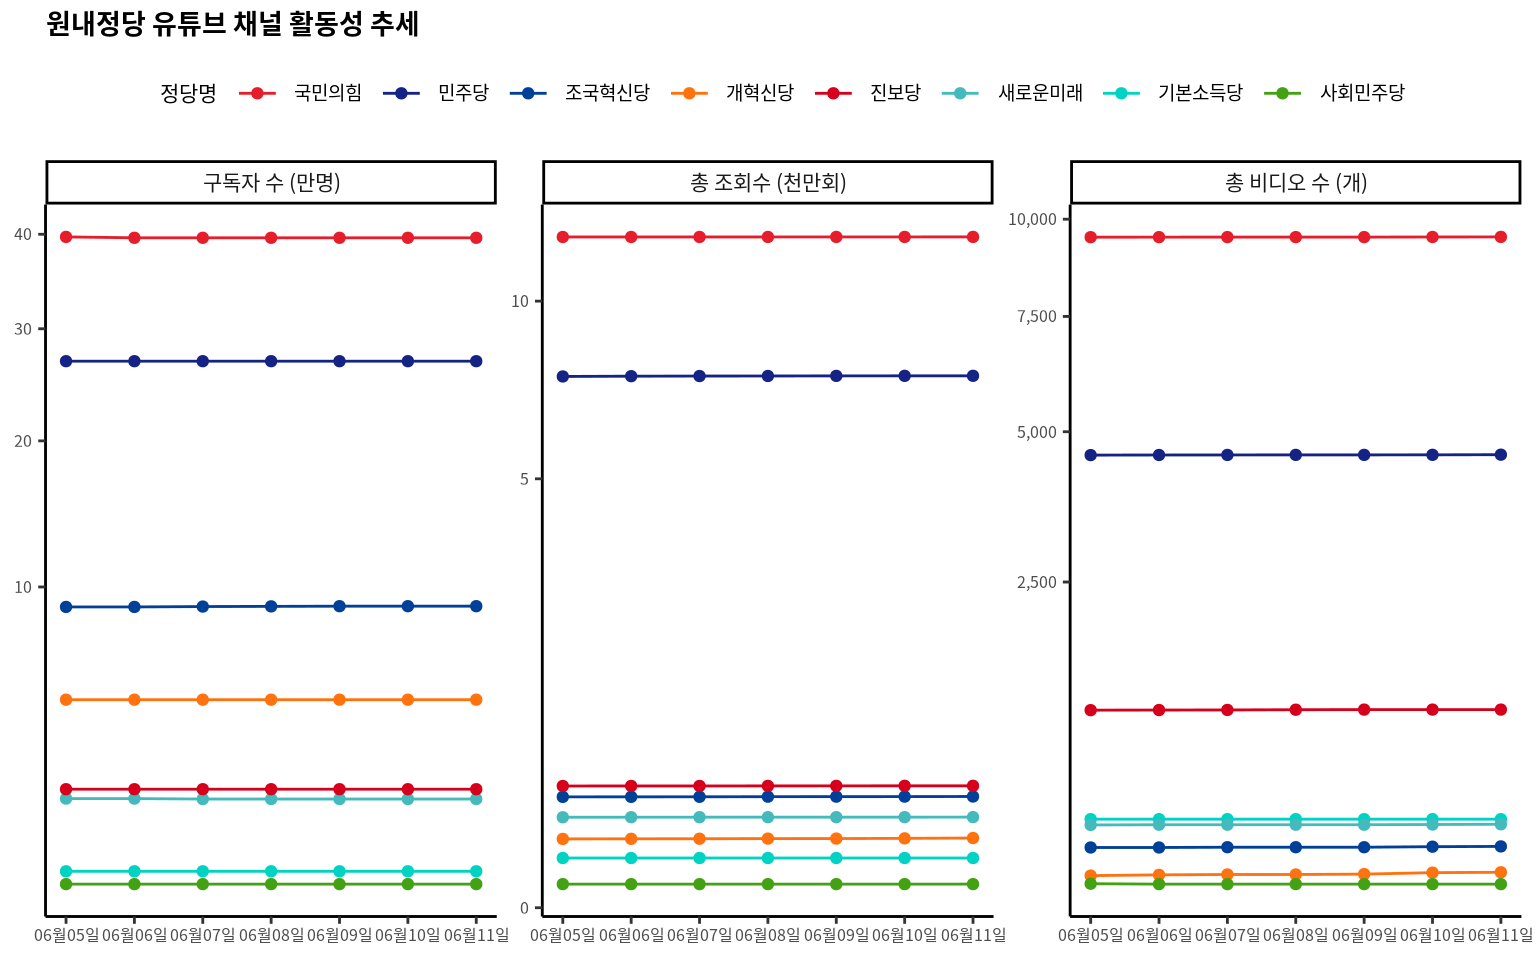
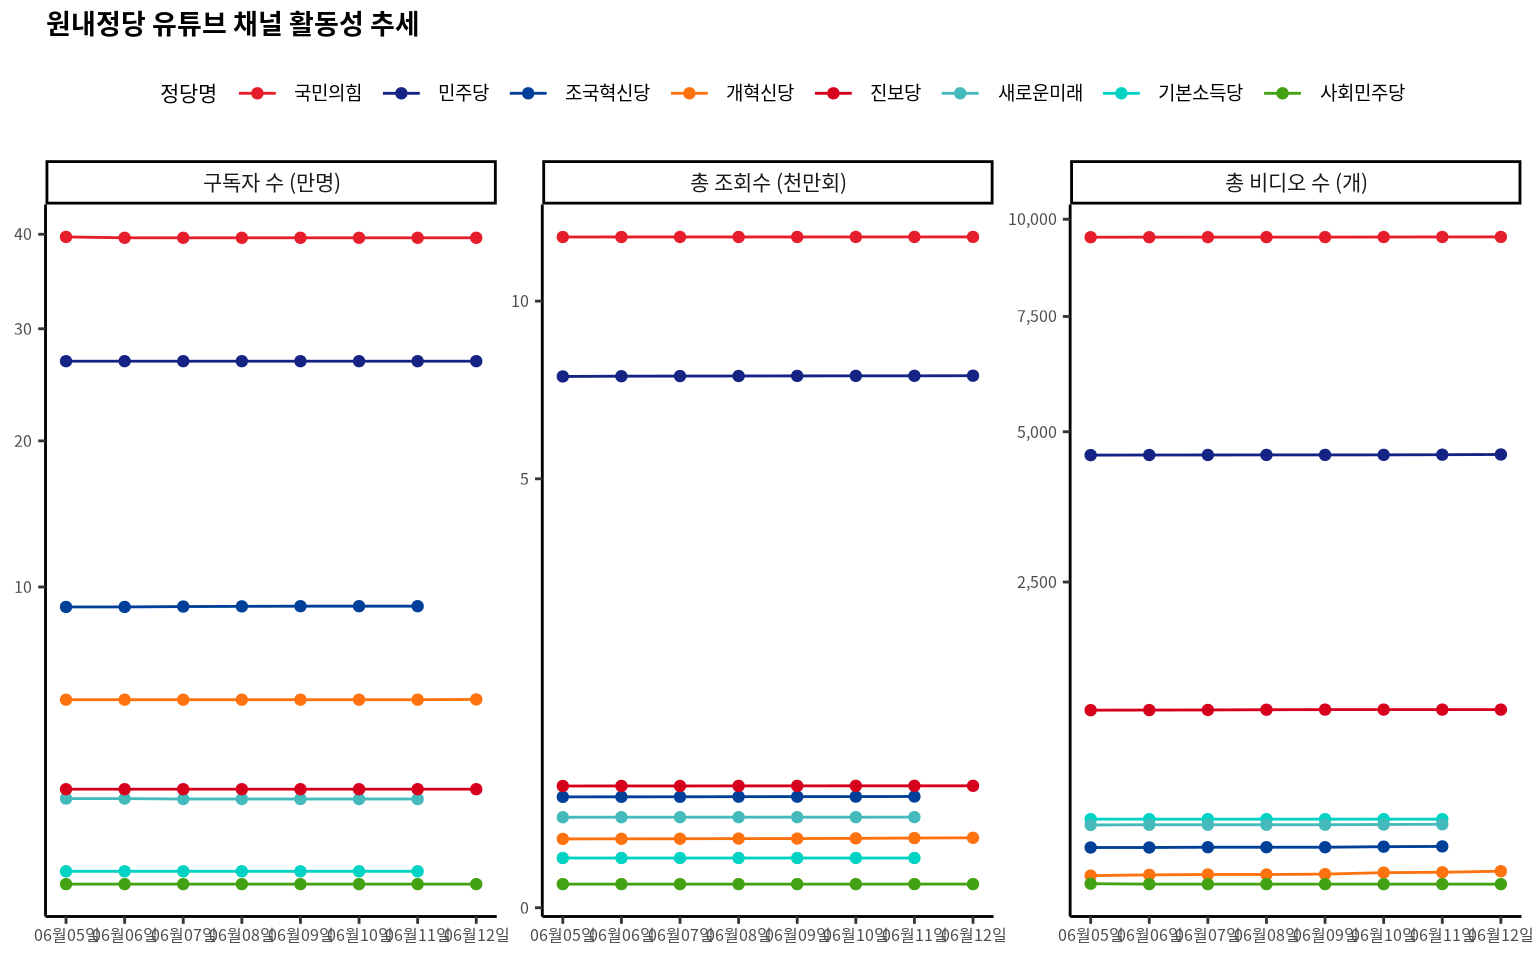
data: YouTube channels info data updated

diff --git a/index.html b/index.html
@@ -84,8 +84,8 @@ grid-auto-rows: minmax(0, 1fr);">
 <div class="card cell html-fill-item html-fill-container bslib-card" data-bslib-card-init="" data-require-bs-caller="card()" data-full-screen="false">
 <div class="card-body html-fill-item html-fill-container">
 <div class="cell-output-display html-fill-item html-fill-container">
-<div class="reactable html-widget html-fill-item html-fill-container" id="htmlwidget-633018d6b34c9a103936" style="width:auto;height:auto;"></div>
-<script type="application/json" data-for="htmlwidget-633018d6b34c9a103936">{"x":{"tag":{"name":"Reactable","attribs":{"data":{"채널":["UCoQD2xsqwzJA93PTIYERokg","UCGd1rNecfS_MND8PQsKOJhQ","UCKsehTG1cZIeb80J4AyiJ6Q","UCdkv2W-p3wEK5REQHfu7OKA","UCD2FurCIhOsG3FsTM1-jirA","UC58ySWAGaH5AxRQCk3XGLzA","UCvtJBm9C0rd6Py-GB8KLH1A","UCHXfJ__xZs-BAA-tU8L19rQ"],"정당명":["민주당","국민의힘","조국혁신당","개혁신당","진보당","새로운미래","기본소득당","사회민주당"],"채널명":["델리민주 Daily Minjoo","국민의힘TV","조국혁신당","개혁신당TV","진보당 진보TV","새로운미래","기본소득당","사회민주당"],"개설일":["2018-10-30","2012-02-13","2024-03-06","2018-04-25","2017-10-25","2024-01-22","2019-08-27","2023-07-25"],"설명":["더불어민주당 인스타그램 shorts 채널 개설!\n\n빠르고 생생한 더불어민주당의 오늘!\n인스타그램 shorts로 한 번에 모아보고 싶다면?\n\n바로가기 : https://www.instagram.com/theminjoo_shorts/\n\n\n이전 영상은 하단 링크에서 보실 수 있습니다. \n민주당 영상아카이브1 https://youtube.com/c/minjoodang\n민주당 영상아카이브2 https://youtube.com/user/minjootv\n\n","국민 앞에 하나!  대한민국 유일 정통보수정당 '국민의힘' 공식 유튜브 채널입니다.\n\n국민의 힘으로 대한민국의 역사와 미래를 지키겠습니다.","3년은 너무 길다! 검찰독재 조기종식!\n조국혁신당 공식 유튜브 채널입니다.\n\n후원계좌\n농협 301-0346-8161-51\n예금주: 조국혁신당중앙당 후원회","오늘보다 더 나은 내일을 약속합니다.\n\n개혁신당TV\n","대표 진보정당 진보당의 공식 유튜브 채널입니다.\n\n진보당 후원 계좌 : 농협 301-0221-3827-11\n후원 문의 : 02-6933-0012\n후원 안내 : https://jinboparty.com/contents/?cp=s...\n","오직 국가의 미래와 국민의 행복만을 바라보고 나아갑니다.\n국민 여러분의 동참을 부탁드립니다.\n","대한민국 원내정당 기본소득당의 공식 유튜브입니다\n","사회민주당 공식 유튜브 계정\n"],"키워드":["민주당 더불어민주당 더민주 민주 델리민주 \"더불어민주당 유튜브\"","자유한국당 오른소리 김병준 나경원 홍준표 의원총회 최고위원회의 최고중진연석회의 박근혜 김무성 민생 경제 유세 순방 방문 황교안 단식 광화문 투쟁 미래통합당 유승민 이언주 국민의힘 김종인 준스톤 이준석 국민의힘 윤석열 한동훈","","개혁신당 이준석 천하람 허은아 이기인 양향자 김종인 함익병 이원욱 조응천 준스톤 공천 선거 2024선거 국회의원 여당 야당 국회 비례대표 신당 창당 정당 민심 \"이준석 유튜브\" 제3정당 \"이준석 신당\"","진보정당 정당 진보당 진보 대통령선거 지방의원 지방자치 민생 기후위기 지방선거 총선 가계부채 청년부채 가계부채119 대선 지선 진보정치","이낙연신당 새로운미래 이낙연","기본소득 기본소득당 재난지원금 용혜인 신지혜",""],"토픽범주":["/m/098wr, /m/05qt0","/m/05qt0, /m/098wr","/m/098wr, /m/05qt0","/m/05qt0, /m/098wr","/m/098wr, /m/05qt0","/m/098wr, /m/05qt0","/m/098wr, /m/05qt0","/m/098wr, /m/05qt0"]},"columns":[{"id":"채널","name":"채널","type":"character","header":"채널","minWidth":30,"align":"center","headerStyle":{"background":"#f7f7f8"},"cell":"\n          function(cellInfo) {\n            // Render as a link\n            \n            return '<a href=https://www.youtube.com/channel/' + cellInfo.value + '/>' + cellInfo.value + '<\/a>'\n          }","html":true},{"id":"정당명","name":"정당명","type":"factor","header":"정당명","minWidth":10,"align":"center","headerStyle":{"background":"#f7f7f8"},"show":true},{"id":"채널명","name":"채널명","type":"character","header":"채널명","minWidth":15,"align":"center","headerStyle":{"background":"#f7f7f8"},"show":true},{"id":"개설일","name":"개설일","type":"Date","header":"개설일","minWidth":10,"align":"center","headerStyle":{"background":"#f7f7f8"},"show":true},{"id":"설명","name":"설명","type":"character","header":"설명","minWidth":80,"align":"center","headerStyle":{"background":"#f7f7f8"}},{"id":"키워드","name":"키워드","type":"character","header":"키워드","minWidth":50,"align":"center","headerStyle":{"background":"#f7f7f8"},"show":true},{"id":"토픽범주","name":"토픽범주","type":"character","header":"토픽범주","minWidth":30,"align":"center","headerStyle":{"background":"#f7f7f8"},"show":true}],"searchable":true,"highlight":true,"bordered":true,"dataKey":"1f7370d1761d3e8e595debcd3004f5fe"},"children":[]},"class":"reactR_markup"},"evals":["tag.attribs.columns.0.cell"],"jsHooks":[]}</script>
+<div class="reactable html-widget html-fill-item html-fill-container" id="htmlwidget-d82cce9cd3242f537e45" style="width:auto;height:auto;"></div>
+<script type="application/json" data-for="htmlwidget-d82cce9cd3242f537e45">{"x":{"tag":{"name":"Reactable","attribs":{"data":{"채널":["UCoQD2xsqwzJA93PTIYERokg","UCGd1rNecfS_MND8PQsKOJhQ","UCKsehTG1cZIeb80J4AyiJ6Q","UCdkv2W-p3wEK5REQHfu7OKA","UCD2FurCIhOsG3FsTM1-jirA","UC58ySWAGaH5AxRQCk3XGLzA","UCvtJBm9C0rd6Py-GB8KLH1A","UCHXfJ__xZs-BAA-tU8L19rQ"],"정당명":["민주당","국민의힘","조국혁신당","개혁신당","진보당","새로운미래","기본소득당","사회민주당"],"채널명":["델리민주 Daily Minjoo","국민의힘TV","조국혁신당","개혁신당TV","진보당 진보TV","새로운미래","기본소득당","사회민주당"],"개설일":["2018-10-30","2012-02-13","2024-03-06","2018-04-25","2017-10-25","2024-01-22","2019-08-27","2023-07-25"],"설명":["더불어민주당 인스타그램 shorts 채널 개설!\n\n빠르고 생생한 더불어민주당의 오늘!\n인스타그램 shorts로 한 번에 모아보고 싶다면?\n\n바로가기 : https://www.instagram.com/theminjoo_shorts/\n\n\n이전 영상은 하단 링크에서 보실 수 있습니다. \n민주당 영상아카이브1 https://youtube.com/c/minjoodang\n민주당 영상아카이브2 https://youtube.com/user/minjootv\n\n","국민 앞에 하나!  대한민국 유일 정통보수정당 '국민의힘' 공식 유튜브 채널입니다.\n\n국민의 힘으로 대한민국의 역사와 미래를 지키겠습니다.","3년은 너무 길다! 검찰독재 조기종식!\n조국혁신당 공식 유튜브 채널입니다.\n\n후원계좌\n농협 301-0346-8161-51\n예금주: 조국혁신당중앙당 후원회","오늘보다 더 나은 내일을 약속합니다.\n\n개혁신당TV\n","대표 진보정당 진보당의 공식 유튜브 채널입니다.\n\n진보당 후원 계좌 : 농협 301-0221-3827-11\n후원 문의 : 02-6933-0012\n후원 안내 : https://jinboparty.com/contents/?cp=s...\n","오직 국가의 미래와 국민의 행복만을 바라보고 나아갑니다.\n국민 여러분의 동참을 부탁드립니다.\n","대한민국 원내정당 기본소득당의 공식 유튜브입니다\n","사회민주당 공식 유튜브 계정\n"],"키워드":["민주당 더불어민주당 더민주 민주 델리민주 \"더불어민주당 유튜브\"","자유한국당 오른소리 김병준 나경원 홍준표 의원총회 최고위원회의 최고중진연석회의 박근혜 김무성 민생 경제 유세 순방 방문 황교안 단식 광화문 투쟁 미래통합당 유승민 이언주 국민의힘 김종인 준스톤 이준석 국민의힘 윤석열 한동훈","","개혁신당 이준석 천하람 허은아 이기인 양향자 김종인 함익병 이원욱 조응천 준스톤 공천 선거 2024선거 국회의원 여당 야당 국회 비례대표 신당 창당 정당 민심 \"이준석 유튜브\" 제3정당 \"이준석 신당\"","진보정당 정당 진보당 진보 대통령선거 지방의원 지방자치 민생 기후위기 지방선거 총선 가계부채 청년부채 가계부채119 대선 지선 진보정치","이낙연신당 새로운미래 이낙연","기본소득 기본소득당 재난지원금 용혜인 신지혜",""],"토픽범주":["/m/098wr, /m/05qt0","/m/098wr, /m/05qt0","/m/098wr, /m/05qt0","/m/098wr, /m/05qt0","/m/05qt0, /m/098wr","/m/098wr, /m/05qt0","/m/098wr, /m/05qt0","/m/098wr, /m/05qt0"]},"columns":[{"id":"채널","name":"채널","type":"character","header":"채널","minWidth":30,"align":"center","headerStyle":{"background":"#f7f7f8"},"cell":"\n          function(cellInfo) {\n            // Render as a link\n            \n            return '<a href=https://www.youtube.com/channel/' + cellInfo.value + '/>' + cellInfo.value + '<\/a>'\n          }","html":true},{"id":"정당명","name":"정당명","type":"factor","header":"정당명","minWidth":10,"align":"center","headerStyle":{"background":"#f7f7f8"},"show":true},{"id":"채널명","name":"채널명","type":"character","header":"채널명","minWidth":15,"align":"center","headerStyle":{"background":"#f7f7f8"},"show":true},{"id":"개설일","name":"개설일","type":"Date","header":"개설일","minWidth":10,"align":"center","headerStyle":{"background":"#f7f7f8"},"show":true},{"id":"설명","name":"설명","type":"character","header":"설명","minWidth":80,"align":"center","headerStyle":{"background":"#f7f7f8"}},{"id":"키워드","name":"키워드","type":"character","header":"키워드","minWidth":50,"align":"center","headerStyle":{"background":"#f7f7f8"},"show":true},{"id":"토픽범주","name":"토픽범주","type":"character","header":"토픽범주","minWidth":30,"align":"center","headerStyle":{"background":"#f7f7f8"},"show":true}],"searchable":true,"highlight":true,"bordered":true,"dataKey":"ff6b286f4322a4762c51de55214bef59"},"children":[]},"class":"reactR_markup"},"evals":["tag.attribs.columns.0.cell"],"jsHooks":[]}</script>
 </div>
 </div>
 <bslib-tooltip placement="auto" bsoptions="[]" data-require-bs-version="5" data-require-bs-caller="tooltip()">
@@ -102,8 +102,8 @@ grid-auto-rows: minmax(0, 1fr);">
 <div class="card-header"><div class="card-title">표</div></div>
 <div class="card-body html-fill-item html-fill-container">
 <div class="cell-output-display html-fill-item html-fill-container">
-<div class="reactable html-widget html-fill-item html-fill-container" id="htmlwidget-228e665dfc74d111fa74" style="width:auto;height:auto;"></div>
-<script type="application/json" data-for="htmlwidget-228e665dfc74d111fa74">{"x":{"tag":{"name":"Reactable","attribs":{"data":{"정당명":["민주당","국민의힘","조국혁신당","개혁신당","진보당","새로운미래","기본소득당","사회민주당"],"구독자수":[269000,396000,89400,46300,18200,15900,3760,2480],"조회수":[76893551,122294544,3362160,1319723,4038703,2231433,671691,151409],"비디오수":[4563,9518,184,100,1051,276,300,70],"개설일":["2018-10-30","2012-02-13","2024-03-06","2018-04-25","2017-10-25","2024-01-22","2019-08-27","2023-07-25"],"활동기간_년":[5.6,12.3,0.3,6.1,6.6,0.4,4.8,0.9]},"columns":[{"id":"정당명","name":"정당명","type":"factor","header":"정당명","minWidth":20,"align":"center","headerStyle":{"background":"#f7f7f8"}},{"id":"구독자수","name":"구독자수","type":"numeric","header":"구독자수","minWidth":30,"align":"center","headerStyle":{"background":"#f7f7f8"},"format":{"cell":{"digits":0,"separators":true},"aggregated":{"digits":0,"separators":true}}},{"id":"조회수","name":"조회수","type":"numeric","header":"조회수","minWidth":30,"align":"center","headerStyle":{"background":"#f7f7f8"},"format":{"cell":{"digits":0,"separators":true},"aggregated":{"digits":0,"separators":true}}},{"id":"비디오수","name":"비디오수","type":"numeric","header":"비디오수","minWidth":30,"align":"center","headerStyle":{"background":"#f7f7f8"},"format":{"cell":{"digits":0,"separators":true},"aggregated":{"digits":0,"separators":true}}},{"id":"개설일","name":"개설일","type":"Date","header":"개설일","minWidth":30,"align":"center","headerStyle":{"background":"#f7f7f8"},"show":true},{"id":"활동기간_년","name":"활동기간_년","type":"numeric","header":"활동기간_년","minWidth":30,"align":"center","headerStyle":{"background":"#f7f7f8"},"show":true}],"searchable":true,"highlight":true,"bordered":true,"dataKey":"edc81bcddbef9932d63a3a7b86f46eec"},"children":[]},"class":"reactR_markup"},"evals":[],"jsHooks":[]}</script>
+<div class="reactable html-widget html-fill-item html-fill-container" id="htmlwidget-1197ed39560bc59762a4" style="width:auto;height:auto;"></div>
+<script type="application/json" data-for="htmlwidget-1197ed39560bc59762a4">{"x":{"tag":{"name":"Reactable","attribs":{"data":{"정당명":["민주당","국민의힘","조국혁신당","개혁신당","진보당","새로운미래","기본소득당","사회민주당"],"구독자수":[269000,396000,89400,46400,18200,15900,3760,2480],"조회수":[76926583,122299869,3362160,1329602,4039696,2231433,671691,151443],"비디오수":[4567,9519,184,103,1051,276,300,70],"개설일":["2018-10-30","2012-02-13","2024-03-06","2018-04-25","2017-10-25","2024-01-22","2019-08-27","2023-07-25"],"활동기간_년":[5.6,12.3,0.3,6.1,6.6,0.4,4.8,0.9]},"columns":[{"id":"정당명","name":"정당명","type":"factor","header":"정당명","minWidth":20,"align":"center","headerStyle":{"background":"#f7f7f8"}},{"id":"구독자수","name":"구독자수","type":"numeric","header":"구독자수","minWidth":30,"align":"center","headerStyle":{"background":"#f7f7f8"},"format":{"cell":{"digits":0,"separators":true},"aggregated":{"digits":0,"separators":true}}},{"id":"조회수","name":"조회수","type":"numeric","header":"조회수","minWidth":30,"align":"center","headerStyle":{"background":"#f7f7f8"},"format":{"cell":{"digits":0,"separators":true},"aggregated":{"digits":0,"separators":true}}},{"id":"비디오수","name":"비디오수","type":"numeric","header":"비디오수","minWidth":30,"align":"center","headerStyle":{"background":"#f7f7f8"},"format":{"cell":{"digits":0,"separators":true},"aggregated":{"digits":0,"separators":true}}},{"id":"개설일","name":"개설일","type":"Date","header":"개설일","minWidth":30,"align":"center","headerStyle":{"background":"#f7f7f8"},"show":true},{"id":"활동기간_년","name":"활동기간_년","type":"numeric","header":"활동기간_년","minWidth":30,"align":"center","headerStyle":{"background":"#f7f7f8"},"show":true}],"searchable":true,"highlight":true,"bordered":true,"dataKey":"9f4dfee9d0b9804add01b3bfb9d1b7a7"},"children":[]},"class":"reactR_markup"},"evals":[],"jsHooks":[]}</script>
 </div>
 </div>
 <bslib-tooltip placement="auto" bsoptions="[]" data-require-bs-version="5" data-require-bs-caller="tooltip()">
